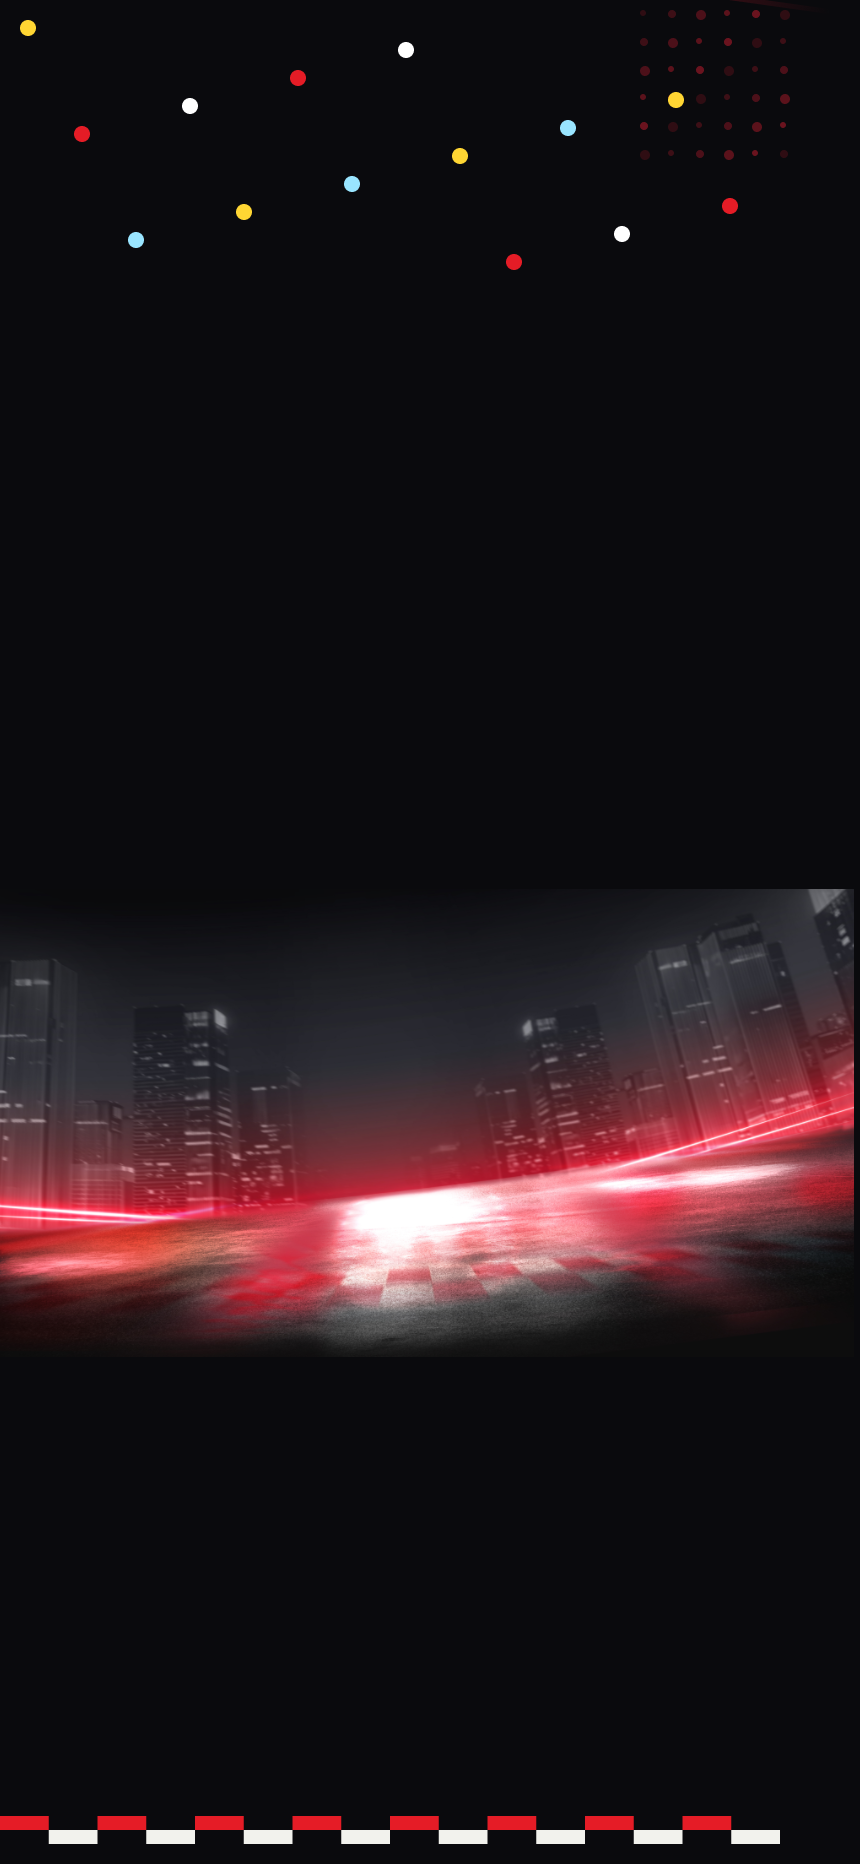
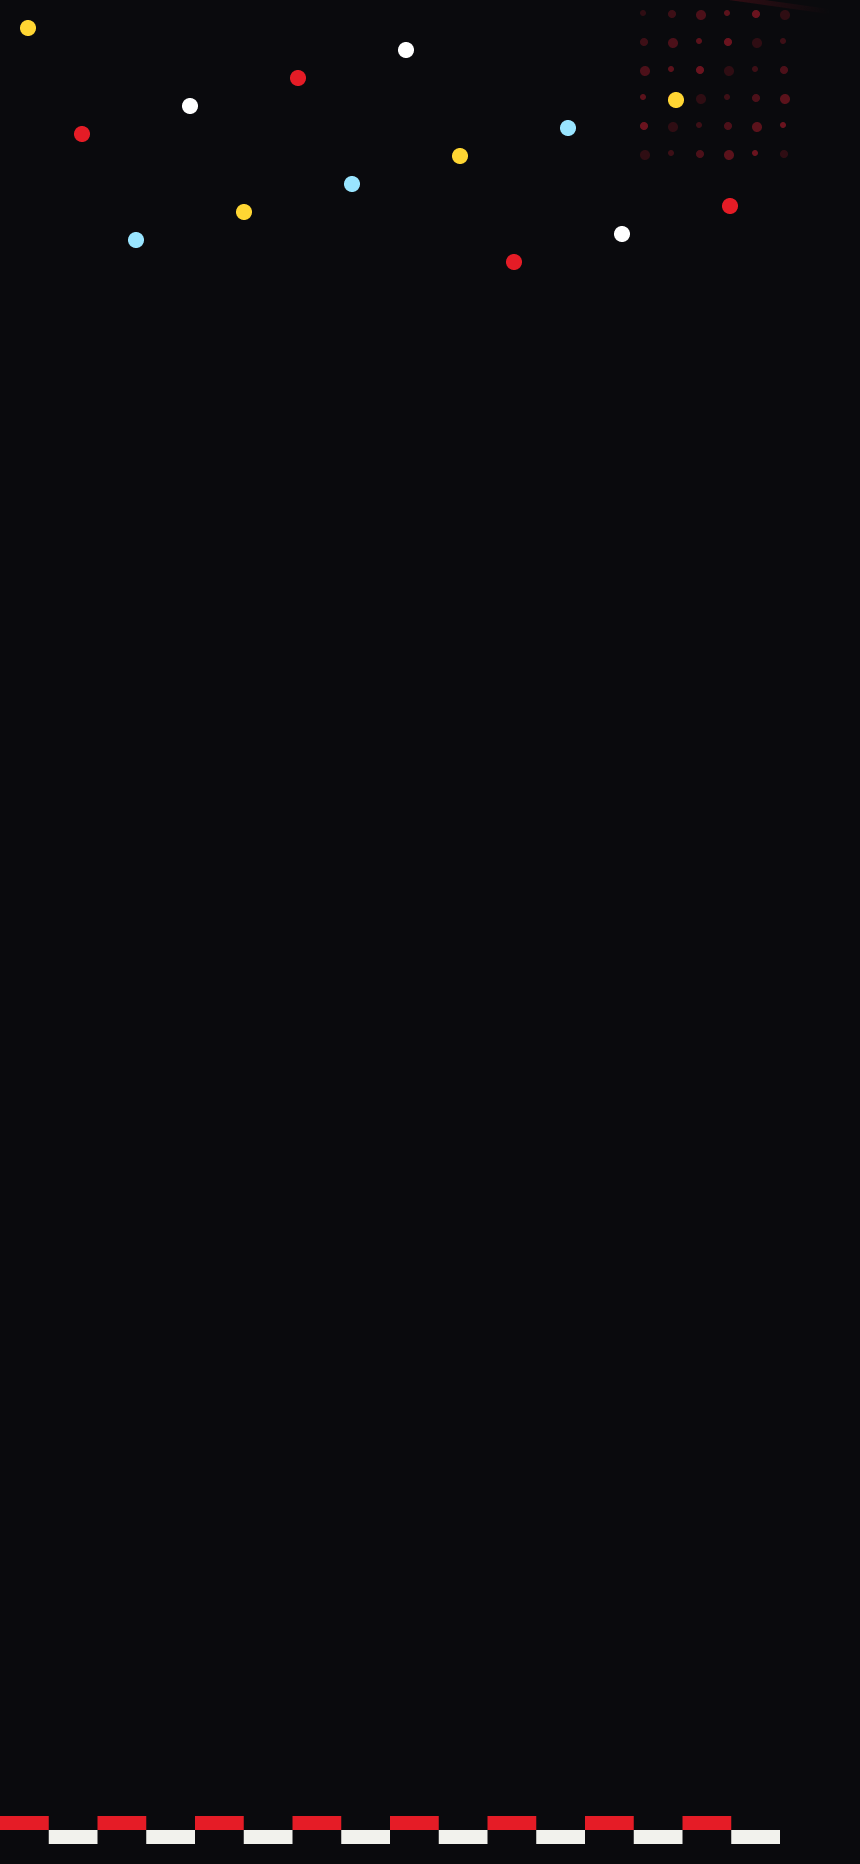
feat: implement 3x3 puzzle game interface with user registration and gameplay logic

Changed region(s): [[0.0, 0.4667, 0.9977, 0.7468]]

diff --git a/client/src/main.tsx b/client/src/main.tsx
@@ -1,7 +1,7 @@
 import React, { useEffect, useState } from "react";
 import { createRoot } from "react-dom/client";
 import { Bell, ChevronLeft, Download, Pause, Play, RotateCcw, Upload, X, Zap, User, Phone, MapPin, Store, Scan } from "lucide-react";
-import racingBg from "./assets/Background.png";
+import racingBg from "./assets/form-bg.png";
 import logoMove from "./assets/logo-move.png";
 import logoKingsport from "./assets/logo-kingsport.png";
 import imgTop1 from "./assets/top1.png";
